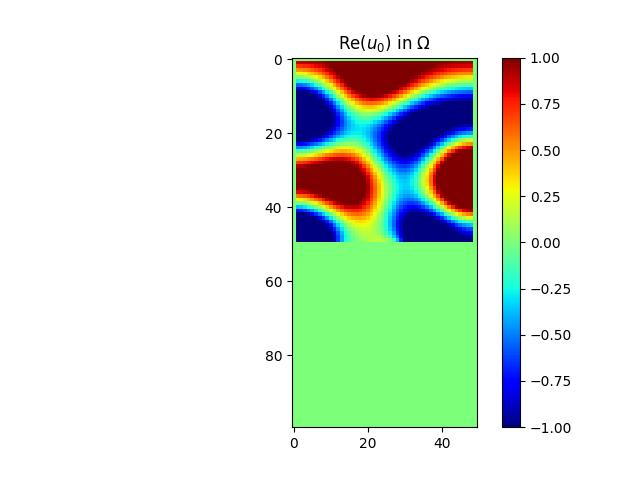
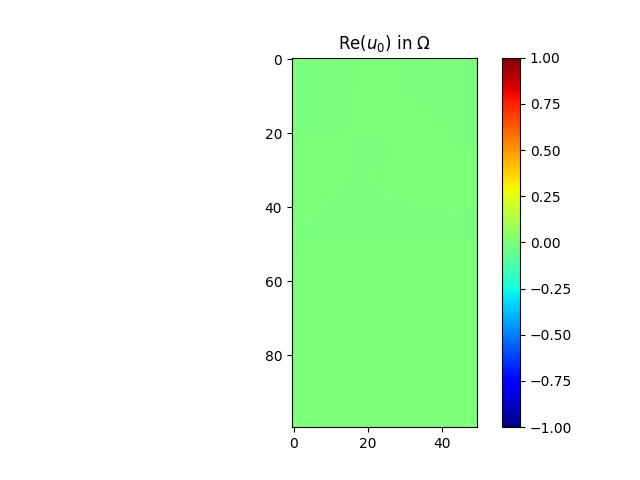
correction fonction d'optimisation d'énergie

Changed region(s): [[0.4375, 0.125, 0.75, 0.5312]]

diff --git a/demo_control_polycopie2024.py b/demo_control_polycopie2024.py
@@ -19,105 +19,120 @@ import material_alpha
 
 
 def your_optimization_procedure(domain_omega, spacestep, omega, f, f_dir, f_neu, f_rob,
-                           beta_pde, alpha_pde, alpha_dir, beta_neu, beta_rob, alpha_rob,
-                           Alpha, mu, chi, V_obj):
-    """This function return the optimized density.
+                                beta_pde, alpha_pde, alpha_dir, beta_neu, beta_rob, alpha_rob,
+                                Alpha, mu, chi, V_obj):
+    """Descente de gradient projete (pulsation omega fixee, volume V_obj fixe).
 
-    Parameter:
-        cf solvehelmholtz's remarks
-        Alpha: complex, it corresponds to the absorbtion coefficient;
-        mu: float, it is the initial step of the gradient's descent;
-        V_obj: float, it characterizes the volume constraint on the density chi.
+    On minimise l'energie RELATIVE J_rel(chi) = J(chi) / J(chi_0), de sorte que
+    J_rel et son gradient soient en O(1) (J seul vaut ~1e-6 ici, ce qui rendait
+    le pas mu = 5 et l'increment 0.001 completement inadaptes).
+
+    chi_{n+1} = P(chi_n - zeta_n * grad J_rel(chi_n))
+    zeta_{n+1} = zeta_n + 0.001 si l'energie J_rel diminue,
+    sinon zeta_n / 2, zeta_n / 4, ... jusqu'a ce que J_rel(chi_{n+1}) < J_rel(chi_n).
     """
 
-    k = 0
-    (M, N) = numpy.shape(domain_omega)
     numb_iter = 100
-    tolerance_chi = 1e-6
-    chi_stabilise = False
-    energy = numpy.zeros((numb_iter+1, 1), dtype=numpy.float64)
-    chi = your_project_density(chi, domain_omega, V_obj)
-    grad = numpy.zeros((M, N), dtype=numpy.float64)
-    print(f"Coefficient Alpha utilise : {Alpha}")
-    print(f"Quantite de materiau imposee : {V_obj * numpy.count_nonzero(domain_omega == _env.NODE_ROBIN):.8f}")
-    while k < numb_iter and mu > 10**(-2):
-        print('---- iteration number = ', k)
-        print('1. computing solution of Helmholtz problem, i.e., u')
-        u, mat, rhs = processing.solve_helmholtz(
+    tolerance_chi = 1e-6      # seuil du critere d'arret ||chi_{n+1} - chi_n|| < delta
+    mu_min = 1e-5             # plus petit pas accepte par la recherche lineaire
+    mu_increase = 0.001       # increment du pas : zeta_{n+1} = zeta_n + 0.001 si succes
+
+    (M, N) = numpy.shape(domain_omega)
+    energy = numpy.zeros((numb_iter + 1, 1), dtype=numpy.float64)  # energie relative J/J0
+
+    def solve(chi_loc):
+        return processing.solve_helmholtz(
             domain_omega, spacestep, omega, f, f_dir, f_neu, f_rob,
             beta_pde, alpha_pde, alpha_dir, beta_neu, beta_rob,
-            Alpha * chi, return_system=True)
-        print('2. computing solution of adjoint problem, i.e., p')
+            Alpha * chi_loc, return_system=True)
+
+    # initialisation : projection de chi_0 dans l'ensemble admissible U_ad(V_obj)
+    chi = your_project_density(chi, domain_omega, V_obj)
+    u, mat, _ = solve(chi)
+
+    # normalisation : J0 = energie initiale (absolue)
+    J0 = your_compute_objective_function(domain_omega, u, spacestep)
+    if not J0 > 0:
+        raise ValueError("Energie initiale nulle ou non definie : impossible de normaliser.")
+    energy[0, 0] = 1.0
+
+    print(f"Coefficient Alpha utilise : {Alpha}")
+    print(f"Quantite de materiau imposee : {V_obj * numpy.count_nonzero(domain_omega == _env.NODE_ROBIN):.8f}")
+    print(f"Energie initiale absolue J0 : {J0:.6e}")
+
+    variation_chi = numpy.inf
+    k = 0
+    while k < numb_iter and mu > mu_min:
+        print('---- numero d\'iteration = ', k)
+        print('1-2. probleme adjoint, i.e., p')
         p = your_compute_adjoint(domain_omega, u, spacestep, mat)
-        print('3. computing objective function, i.e., energy')
-        energy[k, 0] = your_compute_objective_function(domain_omega, u, spacestep)
-        print(f"   Energie actuelle : {energy[k, 0]:.12f}")
-        print('4. computing parametric gradient')
+        print('3. gradient parametrique')
         grad = your_compute_gradient(domain_omega, u, p, spacestep,
-                                     f_rob, beta_pde, beta_rob, Alpha, chi)
-        print(f"   Norme de l'adjoint : {numpy.linalg.norm(p):.6e}")
-        print(f"   Norme du gradient : {numpy.linalg.norm(grad):.6e}")
+                                     f_rob, beta_pde, beta_rob, Alpha, chi) / J0
+        print(f"   Energie relative actuelle : {energy[k, 0]:.12f}")
+        print(f"   Norme du gradient (normalise) : {numpy.linalg.norm(grad):.6e}")
+
+        # Recherche lineaire : division du pas par 2 tant que l'energie ne diminue pas
         ene = energy[k, 0]
-        bool_a = False
-        while ene >= energy[k, 0] and mu > 10 ** -5:
-            print('    a. computing gradient descent')
-            chi_test = chi - mu * grad
-            print('    b. computing projected gradient')
-            chi_test = your_project_density(chi_test, domain_omega, V_obj)
-            print('    c. computing solution of Helmholtz problem, i.e., u')
-            u_test = processing.solve_helmholtz(
-                domain_omega, spacestep, omega, f, f_dir, f_neu, f_rob,
-                beta_pde, alpha_pde, alpha_dir, beta_neu, beta_rob, Alpha * chi_test)
-            print('    d. computing objective function, i.e., energy (E)')
-            ene = your_compute_objective_function(domain_omega, u_test, spacestep)
-            print(f"   Pas teste : {mu:.8g} | Energie testee : {ene:.12f}")
-            print(f"   Variation de chi : {numpy.linalg.norm(chi_test - chi):.6e}")
-            bool_a = numpy.isfinite(ene) and ene < energy[k, 0]
-            print("   Essai accepte" if bool_a else "   Essai refuse : reduction du pas")
-            if bool_a:
-                # Evaluate the accepted change before replacing the current density.
+        while ene >= energy[k, 0] and mu > mu_min:
+            chi_test = your_project_density(chi - mu * grad, domain_omega, V_obj)
+            u_test, mat_test, _ = solve(chi_test)
+            ene = your_compute_objective_function(domain_omega, u_test, spacestep) / J0
+            print(f"   Pas teste : {mu:.8g} | Energie relative testee : {ene:.12f}")
+
+            if ene < energy[k, 0]:
                 variation_chi = numpy.linalg.norm(chi_test - chi)
-                chi_stabilise = variation_chi < tolerance_chi
-                chi = chi_test
-                u = u_test
-                # The step is increased if the energy decreased
-                mu = mu * 1.1
+                chi, u, mat = chi_test, u_test, mat_test
+                mu = mu + mu_increase
             else:
-                # The step is decreased is the energy increased
                 mu = mu / 2
-                ene = energy[k, 0]  # force another trial, also for non-finite energy
-        if not bool_a:
-            break  # no rejected trial may replace the last accepted density
+
+        # Arret si le pas est devenu trop petit sans ameliorer l'energie
+        if ene >= energy[k, 0]:
+            break
+
         k += 1
         energy[k, 0] = ene
-        if chi_stabilise:
-            break  # keep this accepted state and its energy in the history
+        print(f"   Essai accepte | variation de chi : {variation_chi:.6e}")
 
-    print('end. computing solution of Helmholtz problem, i.e., u')
-    u, mat, rhs = processing.solve_helmholtz(
-        domain_omega, spacestep, omega, f, f_dir, f_neu, f_rob,
-        beta_pde, alpha_pde, alpha_dir, beta_neu, beta_rob,
-        Alpha * chi, return_system=True)
-    energy[k, 0] = your_compute_objective_function(domain_omega, u, spacestep)
+        if variation_chi < tolerance_chi:
+            print(f"   Arret : stabilisation de chi ({variation_chi:.6e} < {tolerance_chi:.1e})")
+            break
+
+    # -- calcul du gradient pour la densite finale (retourne pour le post-traitement)
     p = your_compute_adjoint(domain_omega, u, spacestep, mat)
     grad = your_compute_gradient(domain_omega, u, p, spacestep,
-                                 f_rob, beta_pde, beta_rob, Alpha, chi)
+                                 f_rob, beta_pde, beta_rob, Alpha, chi) / J0
+
     print("\nBILAN DE L'OPTIMISATION")
     print(f"Iterations acceptees : {k}")
-    print(f"Energie initiale : {energy[0, 0]:.12f}")
-    print(f"Energie finale : {energy[k, 0]:.12f}")
-    if energy[0, 0] > 0:
-        print(f"Reduction : {100 * (1 - energy[k, 0] / energy[0, 0]):.4f} %")
+    print(f"Energie initiale (absolue) : {J0:.12e}")
+    print(f"Energie finale (absolue) : {J0 * energy[k, 0]:.12e}")
+    print(f"Energie finale relative J/J0 : {energy[k, 0]:.12f}")
+    print(f"Reduction : {100 * (1 - energy[k, 0]):.4f} %")
     print(f"Quantite de materiau finale : {numpy.sum(chi):.8f}")
     print(f"Dernier pas : {mu:.8g}")
-    if chi_stabilise:
-        print(f"Arret : stabilisation de chi ({variation_chi:.6e} < {tolerance_chi:.1e})")
-    elif k == numb_iter:
-        print("Arret : limite d'iterations atteinte")
-    else:
-        print("Arret : pas inferieur au seuil de la boucle")
-    return chi, energy[:k+1], u, grad
 
+    # energy = historique de J/J0 (1 -> valeur finale), grad = gradient de J/J0
+    return chi, energy[:k + 1], u, grad
+
+def binarize_chi_threshold(chi, domain_omega, threshold=0.5):
+    """
+    Transforme chi en fonction binaire {0, 1} avec un seuil explicite.
+    """
+    M, N = chi.shape
+    chi_bin = numpy.zeros((M, N), dtype=numpy.float64)
+
+    for i in range(M):
+        for j in range(N):
+            # On ne modifie que les points situés sur la frontière de Robin
+            if domain_omega[i, j] == _env.NODE_ROBIN:
+                if chi[i, j] >= threshold:
+                    chi_bin[i, j] = 1.0
+                else:
+                    chi_bin[i, j] = 0.0
+
+    return chi_bin
 
 def your_compute_adjoint(domain_omega, u, spacestep, mat):
     # Discrete adjoint: A^H p = h^2 u on the interior, zero elsewhere.
@@ -197,7 +212,7 @@ def your_compute_objective_function(domain_omega, u, spacestep):
 
 if __name__ == '__main__':
     # Choose 'un_materiau' to reproduce the previous single-frequency run.
-    mode = 'comparaison'
+    mode = 'un_materiau'
     if mode == 'comparaison':
         from comparaison_materiaux import run_comparison
         run_comparison(length_m=1.0, sound_speed=340.0, max_iter=100)
@@ -307,9 +322,15 @@ if __name__ == '__main__':
     # -- initialize
     alpha_rob[:, :] = - wavenumber * 1j
 
+    # -- set parameters for optimization
+    S = numpy.count_nonzero(domain_omega == _env.NODE_ROBIN)
+    V_0 = 1  # initial volume of the domain
+    V_obj = 0.3  # constraint on the density (30% of the Robin boundary)
+
     # -- define material density matrix
     chi = preprocessing._set_chi(M, N, x, y)
     chi = preprocessing.set2zero(chi, domain_omega)
+    chi = your_project_density(chi, domain_omega, V_obj)
 
     # -- define absorbing material
     Alpha = complex(Alpha_material)  # coefficient supplied for this material and omega
@@ -318,14 +339,6 @@ if __name__ == '__main__':
     #Alpha = compute_alpha.compute_alpha(...)
     alpha_rob = Alpha * chi
 
-    # -- set parameters for optimization
-    S = 0  # surface of the fractal
-    for i in range(0, M):
-        for j in range(0, N):
-            if domain_omega[i, j] == _env.NODE_ROBIN:
-                S += 1
-    V_0 = 1  # initial volume of the domain
-    V_obj = numpy.sum(numpy.sum(chi)) / S  # constraint on the density
     mu = 5  # initial gradient step
     mu1 = 10**(-5)  # parameter of the volume functional
 

diff --git a/preprocessing.py b/preprocessing.py
@@ -106,8 +106,8 @@ def _set_geometry_of_domain(M, N, level=0):
 
 def _set_chi(M, N, x, y):
     chi = numpy.zeros((M, N), dtype=numpy.float64)
-    k_begin = (len(x) - 1) // 5
-    k_end = 3 * (len(x) - 1) // 5
+    k_begin = int(0.2 * (len(x) - 1))
+    k_end = int(0.5 * (len(x) - 1))
     val = 1.0
     for k in range(k_begin, k_end):
         chi[int(y[k]), int(x[k])] = val
